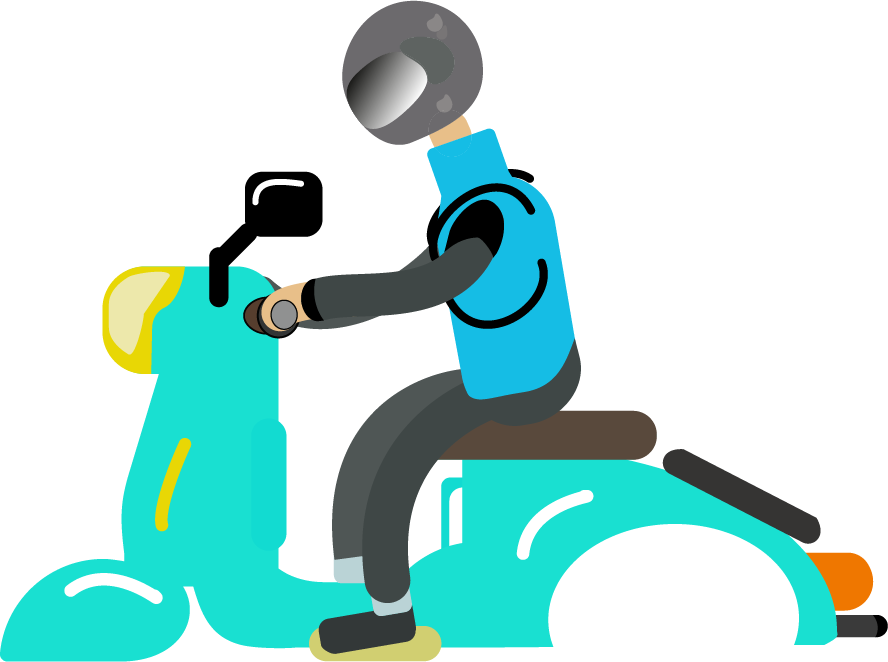
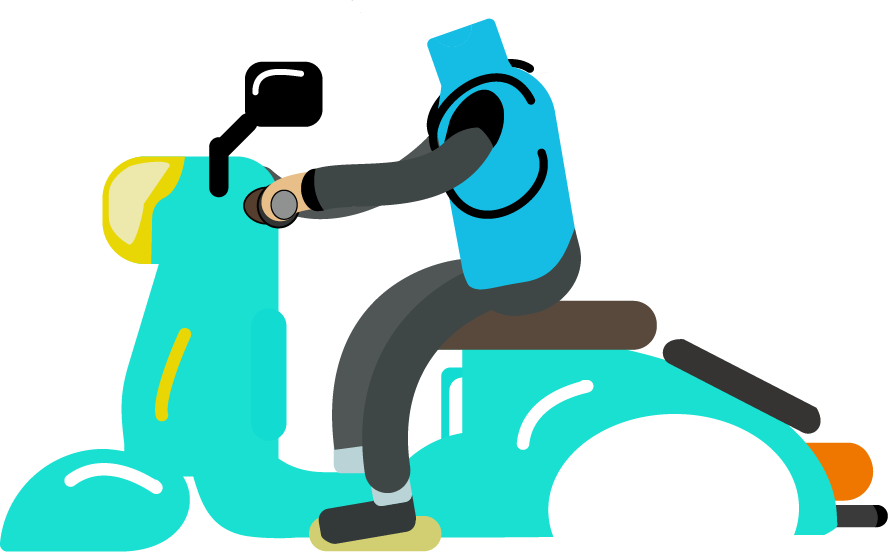
cabeça

diff --git a/style.css b/style.css
@@ -9,6 +9,50 @@ body,html{
     width: 100vw;
     height: 100vh;
 }
+@keyframes moviment {
+        0% {
+            transform: rotate3d(0deg) translateX(0px);
+        }
+    
+        50% {transform: rotate3d(1,2,3, -5deg) translateX(-10px);}
+        
+       
+        100% {transform: rotate3d(1,2,10, -5deg) translateX(-14px);}
+}
+
+.pescoçod{
+    position: relative;
+    animation: moviment 2s ease-in-out alternate infinite;
+}
+.pescoço{
+    position: absolute;
+    width: 40px;
+    top: 50%;
+    left: 50%;
+    margin-top: 100px;
+    margin-left: -9px;
+    z-index: 1;
+    animation: is-boucing01 1.5s  alternate infinite ;
+    animation-delay: 1s;
+}
+.cabeçad{
+    position: relative;
+    animation: is-boucing01 1.5s  alternate infinite ;
+    animation-delay: 1s;
+    
+    z-index: 9;
+}
+.cabeça{
+    position: absolute;
+    width: 80px;
+    top: 50%;
+    left: 50%;
+    margin-top: 45px;
+    margin-left: -44px;
+    animation: moviment 2s ease-in-out alternate infinite;
+    
+   
+}
 .paralama{
     position: relative;
    
@@ -19,10 +63,10 @@ width: 520px;
 z-index: 2;
 top: 50%;
 left: 50%;
-margin-top: 40px;
+margin-top: 109px;
 margin-left:-256px;
 animation: is-boucing01 1.5s  alternate infinite ;
-animation-delay: 3s;
+animation-delay: 1s;
 }
 
 @keyframes rodar {
@@ -46,7 +90,7 @@ animation-delay: 3s;
     margin-top: 165px;
     margin-left: 65px;
     animation: is-boucing 1.5s ease alternate infinite ;
-    animation-delay: 3s;
+    animation-delay: 1s;
 }
 .capad{
     position: relative;
@@ -62,7 +106,7 @@ animation-delay: 3s;
     margin-top: 158px;
     margin-left: 110px;
     animation: is-boucing 1.5s ease alternate infinite ;
-    animation-delay: 3s;
+    animation-delay: 1s;
 }
 
 .refrid{
@@ -77,7 +121,7 @@ animation-delay: 3s;
     margin-top: 144px;
     margin-left:67px;
     animation: is-boucing02 1.5s ease alternate infinite ;
-    animation-delay: 3s;
+    animation-delay: 1s;
     
 }
 .refri2d{
@@ -92,11 +136,13 @@ animation-delay: 3s;
     margin-top: 137px;
     margin-left:112.5px;
     animation: is-boucing02 1.5s ease alternate infinite ;
-    animation-delay: 3s;
+    animation-delay: 1s;
     
 }
 .roda01{
     position: relative;
+    animation: is-boucing01 1.5s  alternate infinite ;
+    animation-delay: 1s;
     
     
 }
@@ -110,12 +156,16 @@ animation-delay: 3s;
     position: absolute;
     animation: rodar 1s linear  reverse infinite ;
     
+    
    
     
 }
 
 .roda02{
     position: relative;
+    animation: is-boucing01 1.5s  alternate infinite ;
+    animation-delay: 1s;
+    
     
 }
 
@@ -189,7 +239,7 @@ animation-delay: 3s;
     margin-top: 111px;
     margin-left: 37px;
     animation: is-boucing 1.5s ease alternate infinite ;
-    animation-delay: 3s;
+    animation-delay: 1s;
     
     
     

diff --git a/index.html b/index.html
@@ -27,5 +27,10 @@
     <div class="refri2d"><img class="refri2" src="refri2.png" alt=""></div>
 
     <div class="capad"><img class="capa2" src="capa02.png" alt=""></div>
+
+
+    <div class="cabeçad"><img class="cabeça" src="cabeça.png" alt=""></div>
+
+    <div class="pescoçod"> <img class="pescoço" src="pescoço.png" alt=""></div>
 </body>
 </html>
